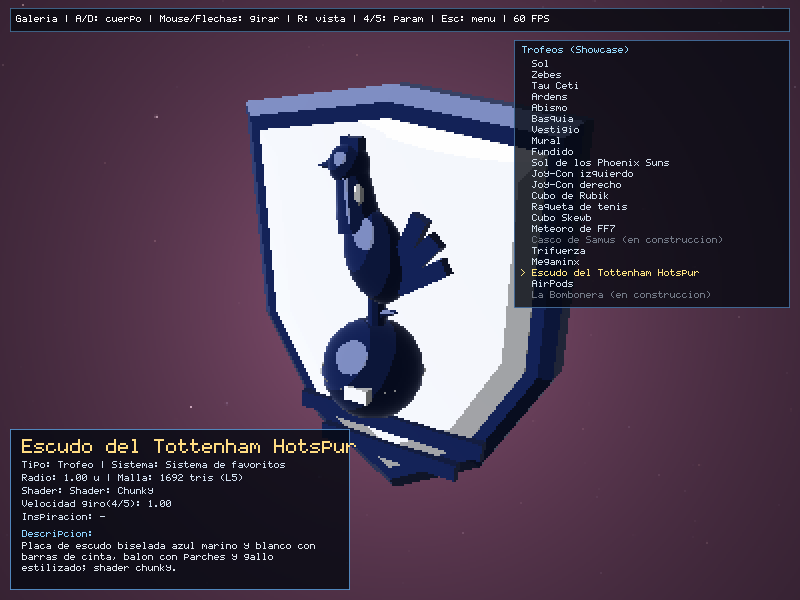
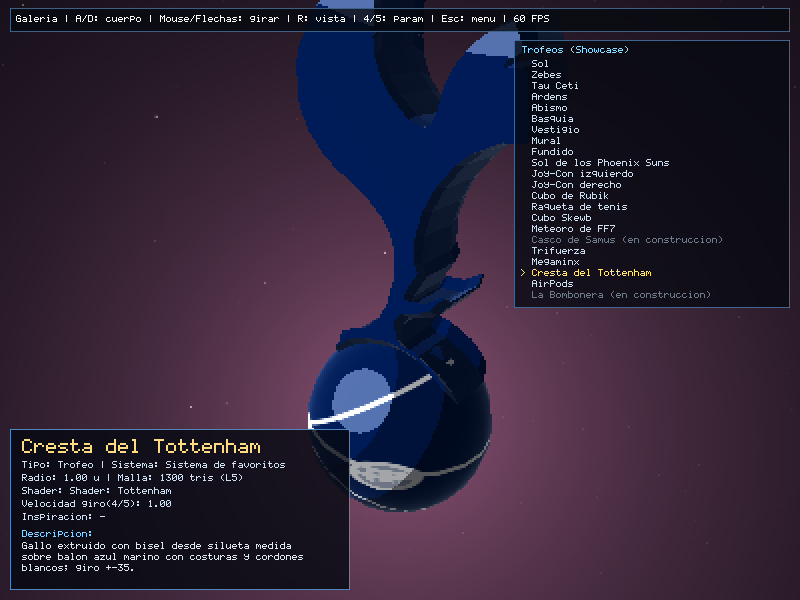
docs(readme): Actualizar las descripciones de la cresta del Tottenham y del sol de los Suns y regenerar sus capturas.

diff --git a/README.md b/README.md
@@ -221,7 +221,7 @@ proy3-graficas/
 
 - Los 4 modelos `.obj` de superficie (`assets/surface/{tree,rock,building,monument}.obj`) no han sido agregados aún; el motor utiliza los marcadores procedurales de respaldo de `src/surface_props.rs`.
 - Los LOD de la nave (`assets/ship_lod0.obj`, `ship_lod1.obj`, `ship_lod2.obj`, con `3000`/`800`/`610` triángulos) ya se cargan desde archivo; el respaldo por decimación en `src/mesh_lod.rs::load_ship_lods` se mantiene únicamente si faltaran.
-- El menú principal y la galería de trofeos ya están implementados; el sistema de favoritos cuenta con 11 cuerpos `Ready` en la galería (`Sol de los Phoenix Suns`, `Escudo del Tottenham Hotspur`, `AirPods`, `Raqueta de tenis`, `Cubo de Rubik`, `Cubo Skewb`, `Megaminx`, `Joy-Con izquierdo`, `Joy-Con derecho`, `Trifuerza` y `Meteoro de FF7`, construidos con `src/mesh_builder.rs` y `src/bodies.rs`) y 2 entradas en estado `Placeholder` ("en construcción": `Casco de Samus` y `La Bombonera`). El vuelo del sistema de favoritos permanece deshabilitado mediante `FAVORITES_FLIGHT_ENABLED = false` hasta completar su integración orbital (#81).
+- El menú principal y la galería de trofeos ya están implementados; el sistema de favoritos cuenta con 11 cuerpos `Ready` en la galería (`Sol de los Phoenix Suns`, `Cresta del Tottenham`, `AirPods`, `Raqueta de tenis`, `Cubo de Rubik`, `Cubo Skewb`, `Megaminx`, `Joy-Con izquierdo`, `Joy-Con derecho`, `Trifuerza` y `Meteoro de FF7`, construidos con `src/mesh_builder.rs`, `src/logo_data.rs` y `src/bodies.rs`) y 2 entradas en estado `Placeholder` ("en construcción": `Casco de Samus` y `La Bombonera`). El vuelo del sistema de favoritos permanece deshabilitado mediante `FAVORITES_FLIGHT_ENABLED = false` hasta completar su integración orbital (#81).
 
 ## Dependencias principales
 

diff --git a/docs/arquitectura.md b/docs/arquitectura.md
@@ -28,7 +28,7 @@
   - **Cubo Skewb** (`Shader::Chunky`): cubo negro de lado 1 con rombo central y 4 triángulos rectángulos isósceles por cara elevados (`12` / `48` / `372` tris).
   - **Megaminx** (`Shader::Chunky`): dodecaedro regular negro con 11 pegatinas por cara en 12 colores (`36` / `312` / `1668` tris).
   - **Joy-Con izquierdo / derecho** (`Shader::Chunky`): carcasa redondeada gris mate espejada, riel lateral `#00C3E3` / `#FF4554`, palanca, cruceta/ABXY, `-`/`+`, captura/Home y SL/SR (`240` / `392` / `696` y `264` / `424` / `744` tris).
-  - **Sol de los Phoenix Suns** (`Shader::PhoenixSuns`): esfera emisiva con proyección azimutal del logo alrededor de Z en ambos polos y halo dorado (`80` / `320` / `1280` tris).
-  - **Escudo del Tottenham Hotspur** (`Shader::Chunky`): placa biselada azul marino/blanco, barras de cinta, balón con parches y gallo de primitivas con giro oscilante.
+  - **Sol de los Phoenix Suns** (`Shader::PhoenixSuns`): placas emisivas extruidas con bisel de la explosión solar y estela de rayos medidas desde `refs/suns_logo.png` (`#F9A01B`) y balón de basquetbol 3D al frente (`#E56020` / `#934414`) con costuras giratorias y oscilación `±30°` (`1336` tris en detalle máximo).
+  - **Cresta del Tottenham** (`Shader::Spurs`): silueta del gallo medida desde `refs/spurs_crest.jpg` extruida con bisel y sombreado chunky en 3 bandas sobre un balón 3D azul marino (`#001C58`) con costuras blancas, parche de cordones y oscilación `±35°` (`1300` tris en detalle máximo).
   - **AirPods** (`Shader::Chunky`): estuche redondeado (`~2.8:2.1:1`) con tapa a 70°, bisagra cilíndrica, LED frontal y auriculares espejados.
   - **Raqueta de tenis** (`Shader::Chunky`): marco ovalado, garganta en Y, mango con bandas y cuerdas como asteroides dispersos en cuadrícula `14×16`.
